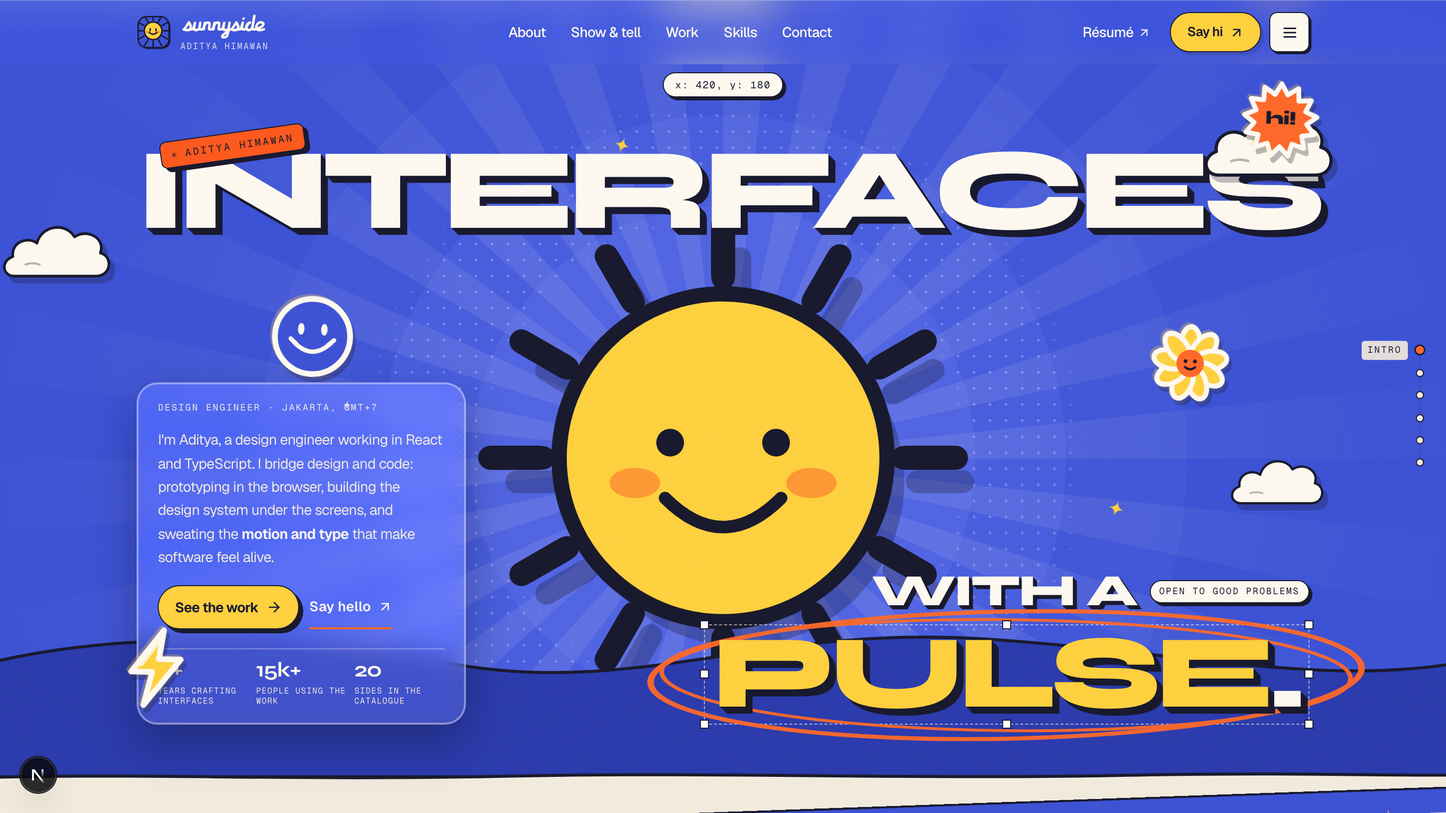
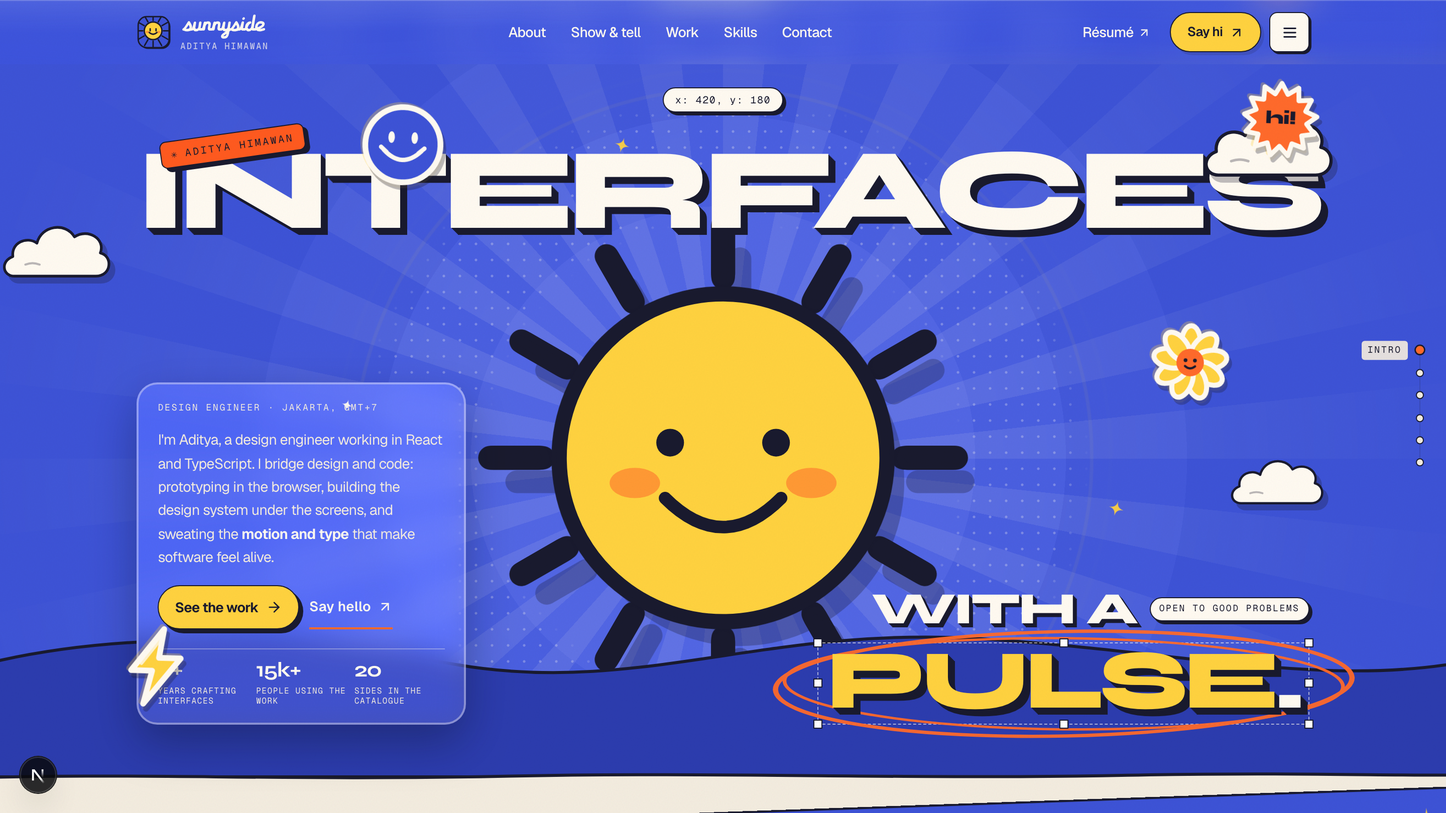
fix(hero): drop the telemetry pill without shifting the canopy, shrink Pulse
The pill's margin was consuming the stage's free space, so lowering it pushed
INTERFACES down with it. Offset it with `top` instead of margin and the
canopy holds at 138px.

Also land the smiley to the right of the name tag over the display line, and
step Pulse from 7.2vw to 5.8vw so the selection frame stops crowding the sun.

diff --git a/features/landing-page/studio/studio.module.css b/features/landing-page/studio/studio.module.css
@@ -475,6 +475,10 @@
 .heroTelemetry {
   align-self: center;
   margin-top: -0.35rem;
+  /* Offset only: a margin here would eat the stage's free space and drag the
+     canopy down with it. */
+  position: relative;
+  top: 0.95rem;
   padding: 0.24rem 0.7rem;
   border: 1.5px solid var(--ink);
   border-radius: 999px;
@@ -784,7 +788,7 @@
   z-index: 1;
   display: block;
   font-family: var(--font-syne), var(--font-space-grotesk), sans-serif;
-  font-size: clamp(2.4rem, 7.2vw, 7rem);
+  font-size: clamp(2.2rem, 5.8vw, 5.6rem);
   font-weight: 800;
   line-height: 0.86;
   letter-spacing: -0.052em;

diff --git a/features/landing-page/studio/hero/hero-scene.tsx b/features/landing-page/studio/hero/hero-scene.tsx
@@ -231,7 +231,7 @@ export function HeroScene() {
 
         <StickerSlot
           id="smiley"
-          place={{ x: -0.84, y: -0.25 }}
+          place={{ x: -0.66, y: -0.63 }}
           depth={1.9}
           delay={1.0}
         >
